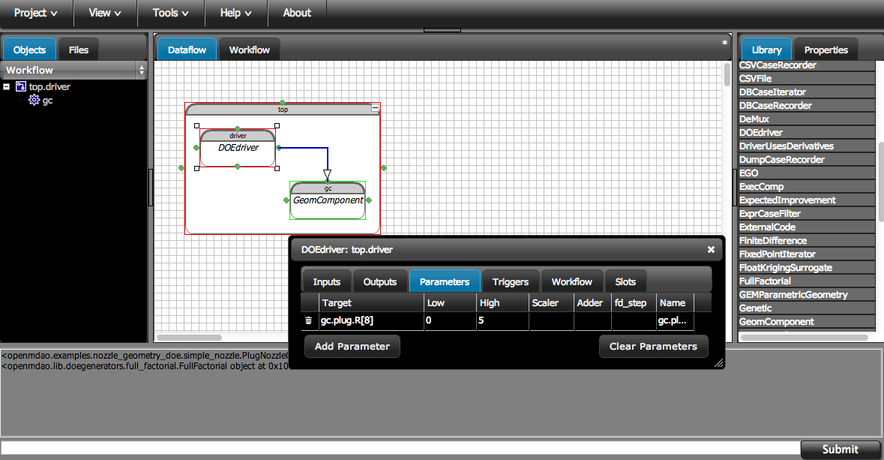
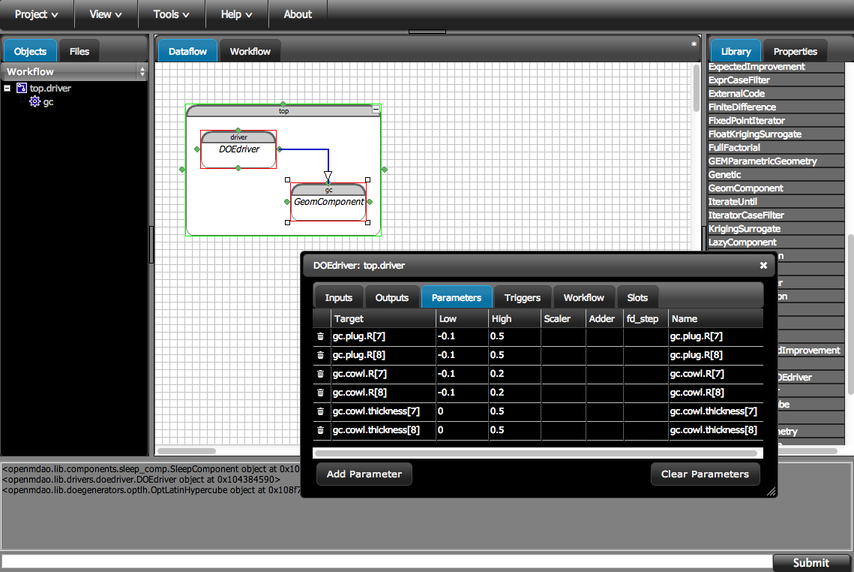
Updated to use more parameters and Latin Hypercube. Also added more formatting

diff --git a/docs/tutorials/geometry/doe_geometry.rst b/docs/tutorials/geometry/doe_geometry.rst
@@ -18,20 +18,19 @@ this tutorial. If you wanted to do real analysis you would certainly use a much 
 but this works fine to demonstrate how to work with geometry in OpenMDAO. 
 
 The nozzle is split into the plug and the cowl, each with its own control variables. The plug 
-has 10 control points arranged axially from the back to front that deform the radius and axial location 
+has 9 control points arranged axially from the back to front that deform the radius and axial location 
 discrete geometry points around that axial location. So for the plug, each control point yields two design 
-variables: axial location and radius. Overall there are 20 design variables for the plug. 
+variables: axial location and radius. Overall there are 18 design variables for the plug. 
 
 The cowl is parameterized by two separate B-splines: one for the 
 thickness of the cowl and one for the radius of the cowl centerline. So the cowl has two sets of 
-10 control points, spaced axially from back to front, which combine to define its geometry. The centerline 
+9 control points, spaced axially from back to front, which combine to define its geometry. The centerline 
 parameterization works just like that of the plug, where you can control the axial location and the radius. 
-The thickness control only has a single dimension. Overall, there are 30 design variables for the cowl. 
+The thickness control only has a single dimension. Overall, there are 27 design variables for the cowl. 
 
 .. note:: This tutorial will be done in the OpenMDAO GUI. In addition, a 
-  script version of this tutorial is available in the file
-  ``examples/openmdao.examples.nozzle_geometry_doe/openmdao/examples/nozzle_geometry_doe/test/test_nozzle_geometry_doe.py``
-  .
+   script version of this tutorial is available in the file :download:`test_nozzle_geometry_doe.py
+   </../examples/openmdao.examples.nozzle_geometry_doe/openmdao/examples/nozzle_geometry_doe/test/test_nozzle_geometry_doe.py>`.
 
 Start by creating a new project in the GUI. We'll name it `DOE Geometry
 Tutorial`.  As in the overview tutorial, first, you should
@@ -40,7 +39,7 @@ Library tab with a text box at the top. In the box type "assemb" and hit enter.
 This will filter down the whole library so you can find things easier. Drag the
 ``Assembly`` and drop it into the workspace. Name it `top.`
 
-.. figure:: library_assembly.png
+.. figure:: library_assembly_resized.png
    :align: center
 
 **Setting up the geometry component**
@@ -48,32 +47,32 @@ This will filter down the whole library so you can find things easier. Drag the
 Go back to the Library and filter it by "geom". Drag the ``GeomComponent`` 
 item and drop it into the `top` assembly. You can name it `gc`. Double click on `gc`
 and in the editor window that appears, click the Slots tab. Drag from the Library the item
-PlugNozzleGeometry and drop it into the parametric_geometry slot. This adds the nozzle model into 
-your generic GeomComponent instance `gc`. If you flip over to the Inputs tab you'll see that 
+``PlugNozzleGeometry`` and drop it into the ``parametric_geometry`` slot. This adds the nozzle model into 
+your generic ``GeomComponent`` instance `gc`. If you flip over to the Inputs tab you'll see that 
 there are now some inputs you can modify that will change the geometry. Feel free to play around 
 a bit if you like. After you change inputs, right click on the `gc` element in the Dataflow and select Run from the menu
 to have the geometry 
 change. At this point, you have no way to view that change in geometry. The next part of the tutorial
 will explain how to do that. 
 
-Click the Outputs tab. In the Value column for the geom_out output, there should be a button
+Click the Outputs tab. In the Value column for the ``geom_out`` output, there should be a button
 labeled View Geom. Click that button and the Geometry Viewer window should appear letting you view the 
 nozzle geometry. 
 
-Go back to the GeomComponent editor window. Click the Inputs tab. Change the value of auto_run to be True. This causes the
-GeomComponent to execute whenever any input values change. In general you would not want to leave this setting on 
-when you were running an analysis. If you optimizer sets 10 values in your geometry model, the model would execute 10 times. 
+Go back to the ``GeomComponent`` editor window. Click the Inputs tab. Change the value of ``auto_run`` to be True. This causes the
+``GeomComponent`` to execute whenever any input values change. In general you would not want to leave this setting on 
+when you were running an analysis. If your optimizer sets 10 values in your geometry model, the model would execute 10 times. 
 That could get very costly for analysis and optimization, but when you're just playing with a model and setting inputs by hand 
-calling run each time can get quite tedious. So in a real scenario, just make sure you set auto_run back to false before doing 
+calling run each time can get quite tedious. So in a real scenario, just make sure you set ``auto_run`` back to false before doing 
 any serious analysis. 
 
 Now we can edit some of the input values for this geometry and see the geometry updated in the OpenMDAO 
-Geometry Viewer window. Edit the plug.R array, which controls the radius control points. To do that, 
-click the cell for the Name column for the ``plug`` input.  
-The sub-elements of plug, R and X, should be revealed. Click in the Value cell for R to bring up the 
-editor for that value. Change the value of the seventh element 
-of the R array to be 2.0 and click the Submit changes button. Look in the Geometry Viewer window. The 
-plug tip should change shape.
+Geometry Viewer window. Edit the ``cowl.R`` array, which controls the radius control points for the cowl. To do that, 
+click the cell for the ``Name`` column for the ``cowl`` input.  
+The sub-elements of cowl, ``R``, ``thickness`` and ``X``, should be revealed. Click in the ``Value`` cell for ``R`` to bring up the 
+editor for that value. Change the value of the second element 
+of the ``R`` array to be 2.0 and click the Submit changes button. Look in the Geometry Viewer window. The 
+cowl should change shape. Put the value of the second element or ``R`` back to 0.0 in preparation for the next part of the tutorial.
 
 .. figure:: nozzle_geom_resized.png
    :align: center
@@ -83,51 +82,60 @@ plug tip should change shape.
 
 From the Library, drag the ``DOEdriver`` item and drop it on the ``driver`` item in the top 
 assembly. A confirmation dialog will ask if you really want to replace the existing driver
-with the DOEdriver. Click Ok. 
+with the ``DOEdriver``. Click Ok. 
 
-Open up the editor for the DOEdriver by double clicking it in the Dataflow. Click on the Slots tab.
-From the Library, drag and drop the FullFactorial item on to the DOEgenerator slot. A dialog window
-will appear asking for the number of levels for this DOE. Enter 3 and click Ok.
+Open up the editor for the ``DOEdriver`` by double clicking it in the Dataflow. Click on the Slots tab.
+From the Library, drag and drop the ``OptLatinHypercube`` item on to the ``DOEgenerator`` slot. A dialog window
+will appear asking for the number of samples for this DOE. Enter 20 and click Ok.
 
-Click the Parameters tab. Click the Add Parameter button in the lower left. Enter in these values:
+We are now going to tell the ``DOEdriver`` what parameters to vary.
+Click the Parameters tab. Using the Add Parameter button in the lower left, add six 
+parameters using these values. 
 
-======================  ===================
-Variable                Value              
-======================  ===================
-``Target``              gc.plug.R[8]
-----------------------  -------------------
-``Low``                 0.0
-----------------------  -------------------
-``High``                5.0
-======================  ===================
+======================  ==========  ==========
+``Target``              ``Low``     ``High``
+======================  ==========  ==========
+gc.plug.R[7]            -0.1        0.5
+----------------------  ----------  ----------
+gc.plug.R[8]            -0.1        0.5
+----------------------  ----------  ----------
+gc.cowl.R[7]            -0.1        0.2
+----------------------  ----------  ----------
+gc.cowl.R[8]            -0.1        0.2
+----------------------  ----------  ----------
+gc.cowl.thickness[7]    0.0         0.5
+----------------------  ----------  ----------
+gc.cowl.thickness[8]    0.0         0.5
+======================  ==========  ==========
 
-and click Ok.
+
+We should now be able to run the analysis! Right click on the ``Assembly``, ``top``, and select Run from the menu. 
+You should notice the geometry change shape. But the analysis runs too quickly to see how the 
+geometry looks for each of the 20 designs. You only see the first and the last.
+
 
 .. figure:: nozzle_geom_doe_resized.png
    :align: center
 
-We should now be able to run the analysis! Right click on the Assembly, ``top``, and select Run from the menu. 
-You should notice the geometry change shape. But the analysis runs too quickly to see how the 
-geometry looks for each of the ten designs. You only see the first and the last.
 
 **Slow down the analysis**
 
 To slow things down a bit, we will add a component to the workflow that does nothing but create a time
 delay. This process will also demonstrate some more features of the OpenMDAO GUI. 
-From the Library, drag the SleepComponent into the Assembly,``top``. Name it "sc". Double click it to open its
-editor window. Change the input value "sleep_time" to be 1.0. Close the editor window. 
+From the Library, drag the ``SleepComponent`` into the ``Assembly``,``top``. Name it "sc". Double click it to open its
+editor window. Change the input value "sleep_time" to be 0.5. Close the editor window. 
 
 We need to add this component to the driver's workflow. First, make sure that the Objects tab is selected on the left
-and that the menu below it is set to Workflow to reveal the Workflow tree. Then, drag 'sc' from the Dataflow diagram onto 'top.driver' in the 
-Workflow tree.  
+and that the menu below it is set to Workflow to reveal the Workflow tree. Then, drag the ``SleepComponent``, 'sc', from 
+the Dataflow diagram onto 'top.driver' in the Workflow tree.  
 
 .. figure:: nozzle_geom_doe_sleep_resized.png
    :align: center
 
-Select Components from the menu in the Objects tab. By clicking on the "top" item in the Components, you should be able to 
-see all the elements in top assembly including the "sc" item we just added. 
+Select Components from the menu in the Objects tab. By clicking on the 'top' item in the Components, you should be able to 
+see all the elements in top assembly including the 'sc' item we just added. 
 
-Now the DOEdriver will run both the GeomComponent and the SleepComponent for each design iteration. 
+Now the ``DOEdriver`` will run both the ``GeomComponent`` and the ``SleepComponent`` for each design iteration. 
 Go back to the Dataflow and try running the analysis again. With the one second delay between each analysis, you can now easily see
 the geometry change shape.
 
